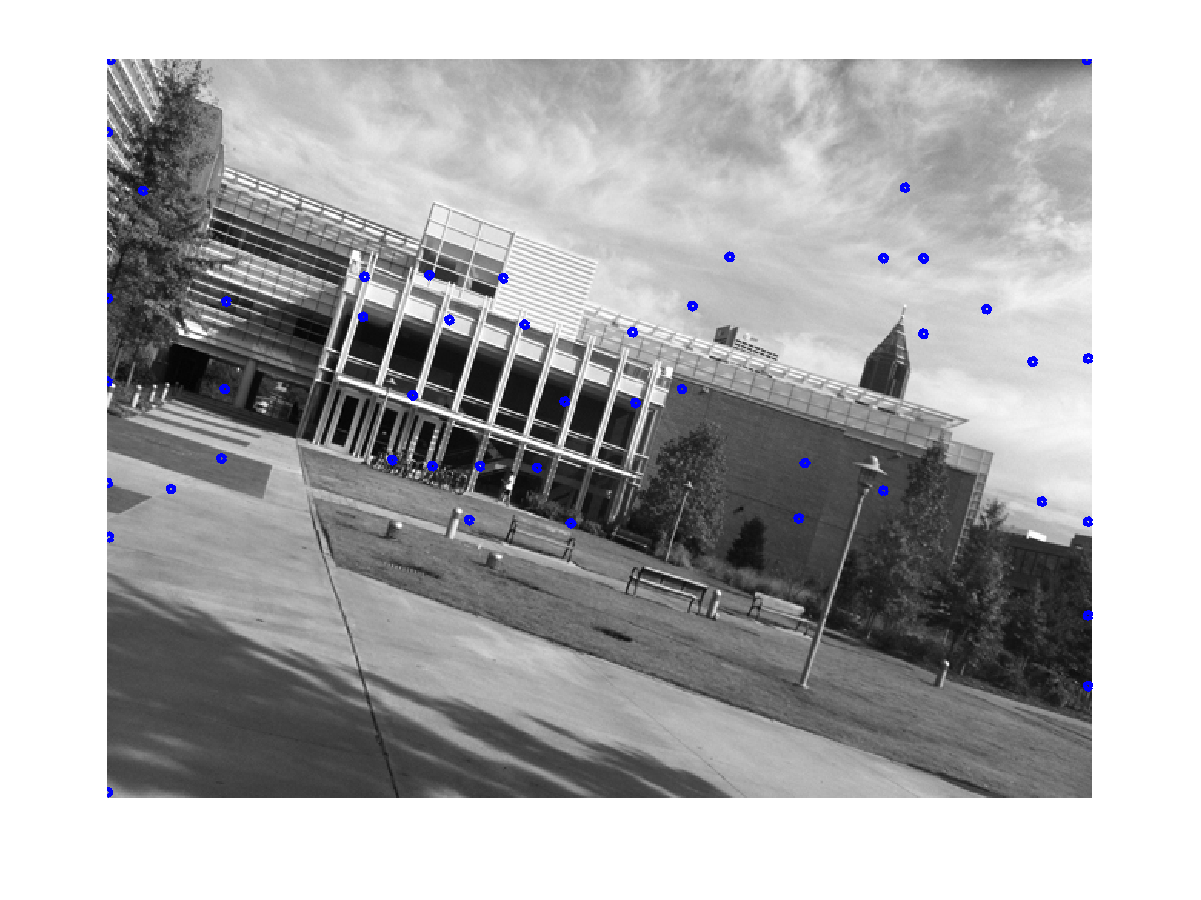
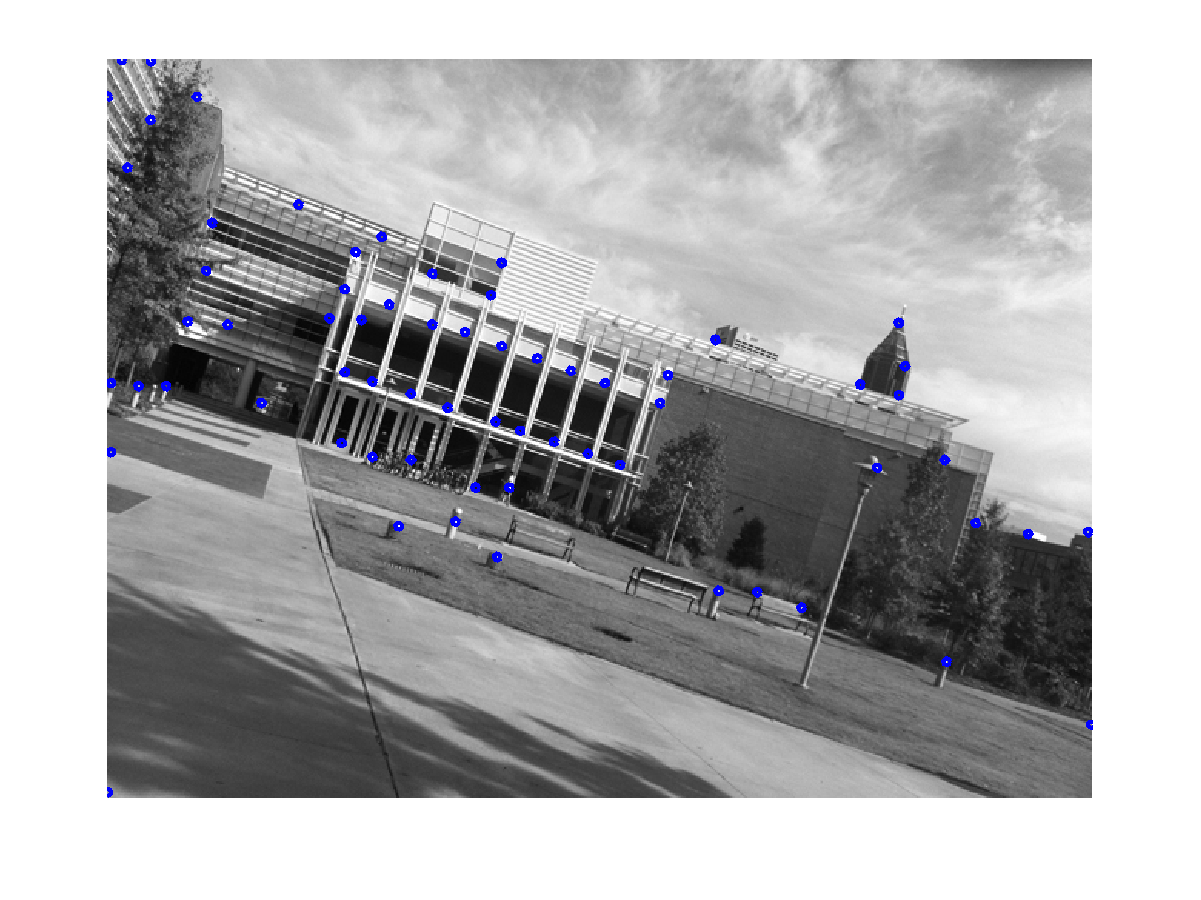
scale issue
scale is used also for display size of circles.

diff --git a/cs4495/ps4_matlab/draw_corner_pair.m b/cs4495/ps4_matlab/draw_corner_pair.m
@@ -3,8 +3,10 @@ function [ output_args ] = draw_corner_pair( img_l, img_r, frame_l, frame_r, out
 %image
     width = size(img_l, 2);
     cols = size(frame_r, 1);
-    offset = repmat([width, 0, 6, 0], cols, 1);
-    frame_r = frame_r + offset;
+    offset_l = repmat([0,0,6,0], size(frame_l,1),1);
+    offset_r = repmat([width, 0, 6, 0], cols, 1);
+    frame_l = frame_l + offset_l;
+    frame_r = frame_r + offset_r;
     img = [img_l, img_r];
     frame = [frame_l; frame_r];
     imshow(img);

diff --git a/cs4495/ps4_matlab/ps4.m b/cs4495/ps4_matlab/ps4.m
@@ -30,7 +30,7 @@ R4_s = n_suppression(R4, 15);
 draw_corners(transA, R1_s, 'ps4-1-c-1.png');
 draw_corners(transB, R2_s, 'ps4-1-c-2.png');
 draw_corners(simA, R3_s, 'ps4-1-c-3.png');
-draw_corners(simB, R3_s, 'ps4-1-c-4.png');
+draw_corners(simB, R4_s, 'ps4-1-c-4.png');
 
 %%2a
 f1 = get_frames(R1_s, A1);

diff --git a/cs4495/ps4_matlab/ransac_translation.m b/cs4495/ps4_matlab/ransac_translation.m
@@ -1,0 +1,7 @@
+function [ output_args ] = ransac_translation( input_args )
+%RANSAC_TRANSLATION Summary of this function goes here
+%   Detailed explanation goes here
+
+
+end
+
